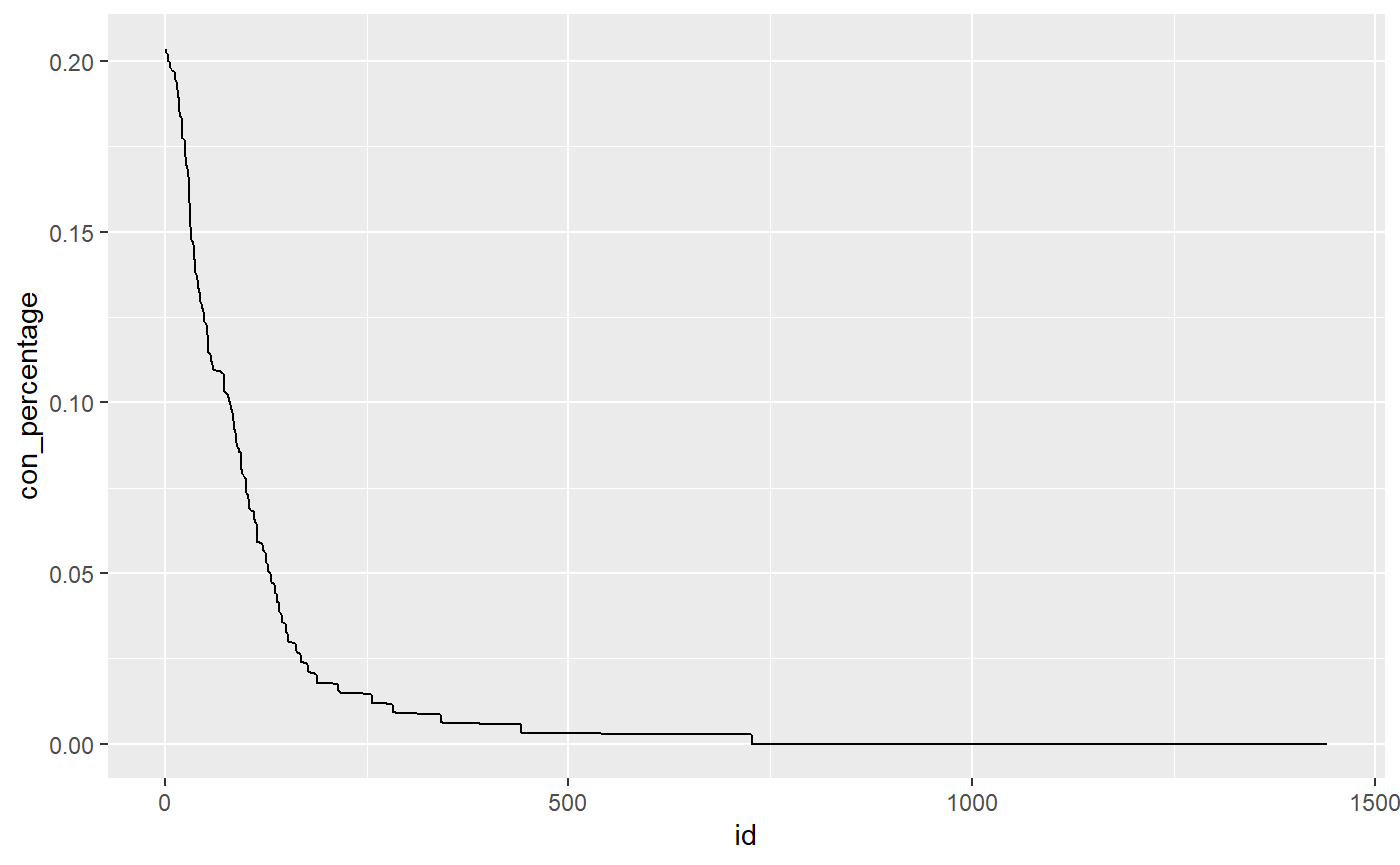
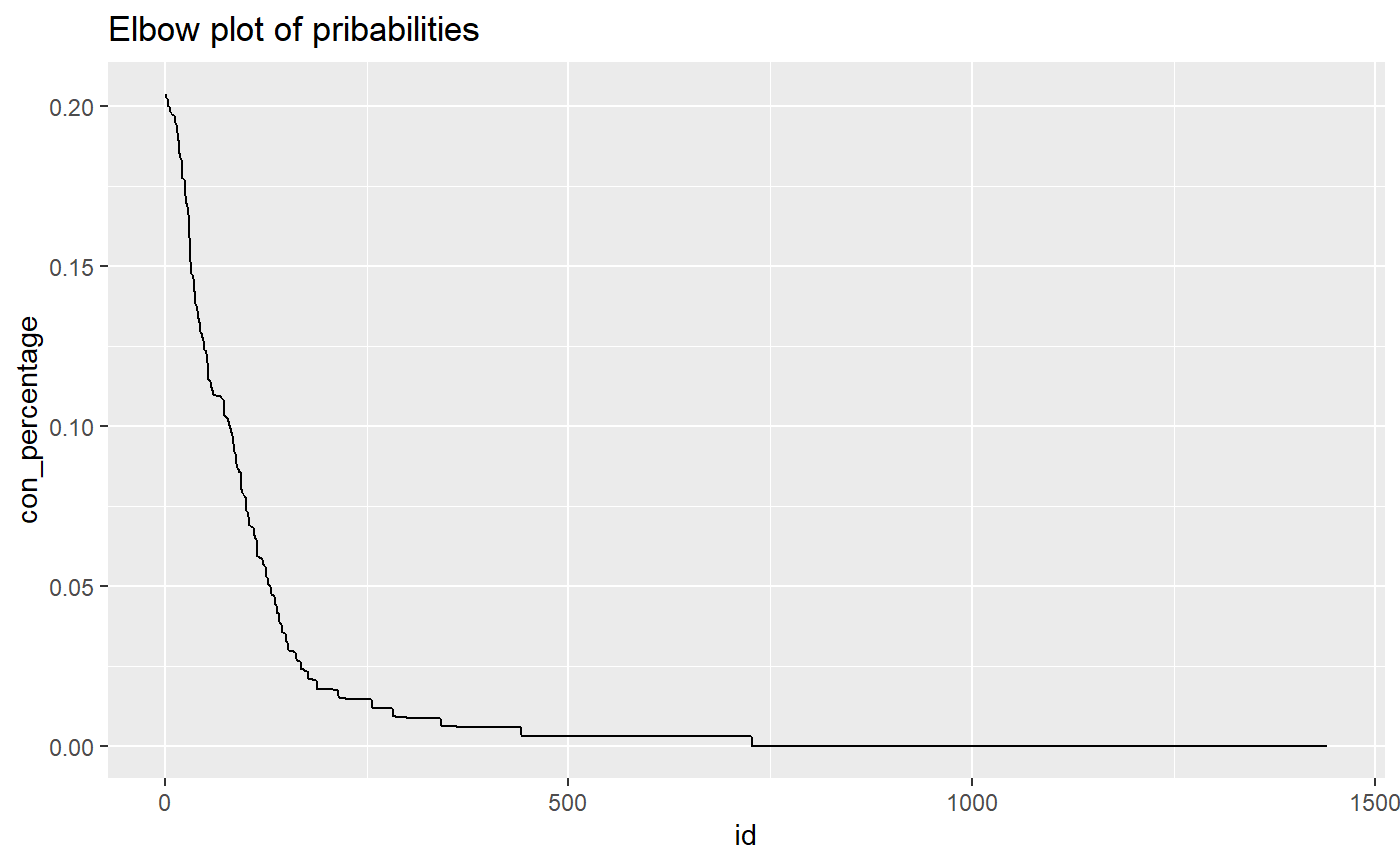
site

diff --git a/docs/articles/Description_functions.html b/docs/articles/Description_functions.html
@@ -85,15 +85,10 @@
 
     
     
-<div id="congestion-detection-with-sample-data" class="section level4">
-<h4 class="hasAnchor">
-<a href="#congestion-detection-with-sample-data" class="anchor"></a>Congestion detection with sample data</h4>
+<p>\begin{abstract} Congestion detection is one of the key steps to reduce delays and associated costs in traffic management. With the increasing usage of GPS base navigation, promising speed data is now available. This study utilizes such extensive historical probe data to detect spatio-temporal congestion by mining historical speed data. The detected congestion were further classified as Recurrent and Non Recurrent Congestion (RC, NRC). This work presents a big data driven expert system for identifying both recurrent and non-recurrent congestion and analyzing the delay and cost associated with them. For this purpose, first normal and anomalous days were classified based on travel rate distribution. Later, we utilized Bayesian change point detection to segment speed signal and detect temporal congestion.In this study, a statistical big data mining methodology is developed and the robustness of the proposed methodology is tested on probe data for 2016 calendar year, in Des Moines region, Iowa, US. The proposed framework is self adaptive because it does not rely on additional information for detecting spatio-temporal congestion. Therefore, it addresses the limits of prior work in NRC detection. The optimum value for congestion percentage threshold is identified by Elbow cut off method. ####Congestion detection with sample data Here we use a sample dataset in our package “dataset” to show the performance of the <strong><em>Congestion_detection</em></strong> function.</p>
 <div class="sourceCode"><pre class="sourceCode r"><code class="sourceCode r"><span class="kw"><a href="https://rdrr.io/r/utils/data.html">data</a></span>(<span class="dt">package =</span> <span class="st">"Dcongestion"</span>, dataset)
 visual&lt;-<span class="kw">Congestion_detection</span>(dataset)</code></pre></div>
-</div>
-<div id="loading-preprocessed-dataset-and-visualizing-the-out-put" class="section level4">
-<h4 class="hasAnchor">
-<a href="#loading-preprocessed-dataset-and-visualizing-the-out-put" class="anchor"></a>Loading preprocessed dataset and visualizing the out put</h4>
+<p>By loading a preprocessed data with <strong><em>Congestion_detection()</em></strong> function and visualizing the output we can observe the temporal congestions in our datafram. In this particular example we have morning an evening pick traffic hours that has been idenfitied with the proposed framework. #### Loading preprocessed dataset and visualizing the out put</p>
 <div class="sourceCode"><pre class="sourceCode r"><code class="sourceCode r">
 <span class="kw"><a href="https://rdrr.io/r/base/library.html">library</a></span>(ggplot2)
 <span class="kw"><a href="https://rdrr.io/r/utils/data.html">data</a></span>(<span class="dt">package =</span> <span class="st">"Dcongestion"</span>, visual)
@@ -103,45 +98,38 @@ visual<span class="op">$</span>date1 &lt;-<span class="kw"><a href="https://rdrr
 
 <span class="kw">ggplot</span>(<span class="dt">data=</span>visual,<span class="kw">aes</span>(<span class="dt">x=</span>time1,<span class="dt">y=</span><span class="kw"><a href="https://rdrr.io/r/base/as.Date.html">as.Date</a></span>(date1)))<span class="op">+</span><span class="kw">geom_tile</span>(<span class="kw">aes</span>(<span class="dt">fill =</span> visual))<span class="op">+</span><span class="kw">scale_fill_gradient</span>(<span class="dt">low=</span><span class="st">"red"</span>,<span class="dt">high=</span><span class="st">"green"</span>,<span class="dt">na.value=</span><span class="st">"white"</span>)<span class="op">+</span><span class="st"> </span><span class="kw">theme_bw</span>()<span class="op">+</span><span class="kw">ylab</span>(<span class="st">""</span>)<span class="op">+</span><span class="st"> </span><span class="kw">theme</span>(<span class="dt">panel.grid =</span> <span class="kw">element_blank</span>() )</code></pre></div>
 <p><img src="Description_functions_files/figure-html/unnamed-chunk-3-1.png" width="700"></p>
-</div>
-<div id="comparison-of-actual-dataset-and-functions-out-put" class="section level4">
-<h4 class="hasAnchor">
-<a href="#comparison-of-actual-dataset-and-functions-out-put" class="anchor"></a>comparison of actual dataset and function’s out put</h4>
+<p>To get a sense of what actual dataset looks like and how the function extracts the congetions we further ploted the actual dataset. #### comparison of actual dataset and function’s out put</p>
 <div class="sourceCode"><pre class="sourceCode r"><code class="sourceCode r"><span class="kw"><a href="https://rdrr.io/r/utils/data.html">data</a></span>(<span class="dt">package =</span> <span class="st">"Dcongestion"</span>, dataset)
 dataset<span class="op">$</span>time1 &lt;-<span class="kw"><a href="https://rdrr.io/r/base/as.POSIXlt.html">as.POSIXct</a></span>(<span class="kw"><a href="https://rdrr.io/r/base/character.html">as.character</a></span>(dataset<span class="op">$</span>time),<span class="dt">format=</span><span class="st">"%H:%M:%S"</span>)
 dataset<span class="op">$</span>date1 &lt;-<span class="kw"><a href="https://rdrr.io/r/base/as.POSIXlt.html">as.POSIXct</a></span>(<span class="kw"><a href="https://rdrr.io/r/base/character.html">as.character</a></span>(dataset<span class="op">$</span>date),<span class="dt">format=</span><span class="st">"%Y-%m-%d"</span>)
 
 <span class="kw">ggplot</span>(<span class="dt">data=</span>dataset,<span class="kw">aes</span>(<span class="dt">x=</span>time1,<span class="dt">y=</span><span class="kw"><a href="https://rdrr.io/r/base/as.Date.html">as.Date</a></span>(date1)))<span class="op">+</span><span class="kw">geom_tile</span>(<span class="kw">aes</span>(<span class="dt">fill =</span> Speed))<span class="op">+</span><span class="kw">scale_fill_gradient</span>(<span class="dt">low=</span><span class="st">"red"</span>,<span class="dt">high=</span><span class="st">"green"</span>,<span class="dt">na.value=</span><span class="st">"white"</span>)<span class="op">+</span><span class="st"> </span><span class="kw">theme_bw</span>()<span class="op">+</span><span class="kw">ylab</span>(<span class="st">""</span>)<span class="op">+</span><span class="st"> </span><span class="kw">theme</span>(<span class="dt">panel.grid =</span> <span class="kw">element_blank</span>() )</code></pre></div>
 <p><img src="Description_functions_files/figure-html/setup-1.png" width="700"></p>
-</div>
-<div id="delay-calculation" class="section level4">
-<h4 class="hasAnchor">
-<a href="#delay-calculation" class="anchor"></a>Delay calculation</h4>
+<p>As green colour refers to normal speed flow while red colour refers to reduced speed values. By comparing the above <strong><em>Congestion_detection</em></strong> function out put and actual dataset we can that temporal congestions has been identified.</p>
+<p>We can further calculate the delay associated to congestions by <strong><em>delay()</em></strong> function. #### Delay calculation</p>
 <div class="sourceCode"><pre class="sourceCode r"><code class="sourceCode r">Dcongestion<span class="op">::</span><span class="kw"><a href="https://rdrr.io/pkg/Dcongestion/man/delay.html">delay</a></span>(visual,<span class="fl">0.6</span>)
 <span class="co">#&gt; [1] 1.898703</span></code></pre></div>
-</div>
+<p>In order to identify and classify detected congestions to Recurrent and non-recurrent. We use an elbow cut of method on the congestion labeled data points. cut of point can be calculated by <strong><em>elbow_finder()</em></strong> function.</p>
 <div id="elbow-cut-off-theshold-calculation" class="section level4">
 <h4 class="hasAnchor">
 <a href="#elbow-cut-off-theshold-calculation" class="anchor"></a>Elbow cut off theshold calculation</h4>
-<div class="sourceCode"><pre class="sourceCode r"><code class="sourceCode r">r&lt;-<span class="kw"><a href="../reference/elbow_viusal.html">elbow_viusal</a></span>(visual)</code></pre></div>
-</div>
-<div id="elbow-cut-off-visualization" class="section level4">
-<h4 class="hasAnchor">
-<a href="#elbow-cut-off-visualization" class="anchor"></a>Elbow cut off visualization</h4>
+<div class="sourceCode"><pre class="sourceCode r"><code class="sourceCode r">
+r&lt;-<span class="kw"><a href="../reference/elbow_viusal.html">elbow_viusal</a></span>(visual)</code></pre></div>
+<p><strong><em>elbow_finder()</em></strong> function was used to calculate the probabilities associated to each time instance. Here we use a preprocessed dataset “r” in order to show the probabilities plot and elbow plot. ####Elbow cut off visualization</p>
 <div class="sourceCode"><pre class="sourceCode r"><code class="sourceCode r"><span class="kw"><a href="https://rdrr.io/r/base/library.html">library</a></span>(dplyr)
 <span class="kw"><a href="https://rdrr.io/r/utils/data.html">data</a></span>(<span class="dt">package =</span> <span class="st">"Dcongestion"</span>, r)
 
 sorted_percentages &lt;-<span class="st"> </span>r <span class="op">%&gt;%</span><span class="st"> </span><span class="kw">arrange</span>(<span class="kw">desc</span>(con_percentage))
-<span class="kw">ggplot</span>(<span class="dt">data=</span>r,<span class="kw">aes</span>(<span class="dt">x=</span>time1, <span class="dt">y=</span>con_percentage))<span class="op">+</span><span class="kw">geom_line</span>()</code></pre></div>
+<span class="kw">ggplot</span>(<span class="dt">data=</span>r,<span class="kw">aes</span>(<span class="dt">x=</span>time1, <span class="dt">y=</span>con_percentage))<span class="op">+</span><span class="kw">geom_line</span>()<span class="op">+</span><span class="kw">ggtitle</span>(<span class="st">'Congestion probabilities'</span>)</code></pre></div>
 <p><img src="Description_functions_files/figure-html/unnamed-chunk-6-1.png" width="700"></p>
 <div class="sourceCode"><pre class="sourceCode r"><code class="sourceCode r">
 ordered_data &lt;-<span class="st"> </span>sorted_percentages <span class="op">%&gt;%</span><span class="st"> </span><span class="kw">mutate</span>(<span class="dt">id =</span> <span class="kw">row_number</span>())
-<span class="kw">ggplot</span>(<span class="dt">data=</span>ordered_data,<span class="kw">aes</span>(<span class="dt">x=</span>id, <span class="dt">y=</span>con_percentage))<span class="op">+</span><span class="kw">geom_line</span>()</code></pre></div>
+<span class="kw">ggplot</span>(<span class="dt">data=</span>ordered_data,<span class="kw">aes</span>(<span class="dt">x=</span>id, <span class="dt">y=</span>con_percentage))<span class="op">+</span><span class="kw">geom_line</span>()<span class="op">+</span><span class="kw">ggtitle</span>(<span class="st">'Elbow plot of pribabilities'</span>)</code></pre></div>
 <p><img src="Description_functions_files/figure-html/unnamed-chunk-6-2.png" width="700"></p>
 <div class="sourceCode"><pre class="sourceCode r"><code class="sourceCode r">
 el_thre &lt;-<span class="st"> </span>Dcongestion<span class="op">::</span><span class="kw"><a href="https://rdrr.io/pkg/Dcongestion/man/elbow_finder.html">elbow_finder</a></span>(ordered_data[, <span class="dv">5</span>], ordered_data[, <span class="dv">1</span>])
-<span class="kw">ggplot</span>(<span class="dt">data=</span>ordered_data,<span class="kw">aes</span>(<span class="dt">x=</span>id, <span class="dt">y=</span>con_percentage))<span class="op">+</span><span class="kw">geom_line</span>()<span class="op">+</span><span class="st"> </span><span class="kw">geom_hline</span>(<span class="dt">yintercept=</span>el_thre[<span class="dv">2</span>], <span class="dt">linetype=</span><span class="st">"dashed"</span>, <span class="dt">color =</span> <span class="st">"red"</span>, <span class="dt">size=</span><span class="dv">2</span>)</code></pre></div>
-<p><img src="Description_functions_files/figure-html/unnamed-chunk-6-3.png" width="700"></p>
+<span class="kw">ggplot</span>(<span class="dt">data=</span>ordered_data,<span class="kw">aes</span>(<span class="dt">x=</span>id, <span class="dt">y=</span>con_percentage))<span class="op">+</span><span class="kw">geom_line</span>()<span class="op">+</span><span class="st"> </span><span class="kw">geom_hline</span>(<span class="dt">yintercept=</span>el_thre[<span class="dv">2</span>], <span class="dt">linetype=</span><span class="st">"dashed"</span>, <span class="dt">color =</span> <span class="st">"red"</span>, <span class="dt">size=</span><span class="dv">2</span>)<span class="op">+</span><span class="kw">ggtitle</span>(<span class="st">'Elbow plot of pribabilities and cut off point'</span>)</code></pre></div>
+<p><img src="Description_functions_files/figure-html/unnamed-chunk-6-3.png" width="700"> The cut off red line shows the cut off point. That is our theshold that identifies recurrent congestions that have a probability higher than an identified threshold value. The values below threshold value are considered as non recurrent and values higher than threshold are considered as recurrent.</p>
 </div>
   </div>
 

diff --git a/docs/reference/Data-Driven-congestion.html b/docs/reference/Data-Driven-congestion.html
@@ -6,7 +6,7 @@
 <meta http-equiv="X-UA-Compatible" content="IE=edge">
 <meta name="viewport" content="width=device-width, initial-scale=1.0">
 
-<title>Function reference • Dcongestion</title>
+<title>Data driven congestion detection. — Data Driven congestion • Dcongestion</title>
 
 <!-- jquery -->
 <script src="https://cdnjs.cloudflare.com/ajax/libs/jquery/3.3.1/jquery.min.js" integrity="sha256-FgpCb/KJQlLNfOu91ta32o/NMZxltwRo8QtmkMRdAu8=" crossorigin="anonymous"></script>
@@ -32,7 +32,10 @@
 
 
 
-<meta property="og:title" content="Function reference" />
+<meta property="og:title" content="Data driven congestion detection. — Data Driven congestion" />
+
+<meta property="og:description" content="Data driven congestion detection." />
+<meta name="twitter:card" content="summary" />
 
 
 
@@ -50,7 +53,7 @@
   </head>
 
   <body>
-    <div class="container template-reference-index">
+    <div class="container template-reference-topic">
       <header>
       <div class="navbar navbar-default navbar-fixed-top" role="navigation">
   <div class="container">
@@ -108,60 +111,53 @@
       </header>
 
 <div class="row">
-  <div class="contents col-md-9">
+  <div class="col-md-9 contents">
     <div class="page-header">
-      <h1>Reference</h1>
+    <h1>Data driven congestion detection.</h1>
+    
+    <div class="hidden name"><code>Data-Driven-congestion.Rd</code></div>
     </div>
 
-    <table class="ref-index">
+    <div class="ref-description">
+    
+    <p>Data driven congestion detection.</p>
+    
+    </div>
 
-    <colgroup>
-      
-      <col class="alias" />
-      <col class="title" />
-    </colgroup>
-
-    <tbody>
-      <tr>
-        <th colspan="2">
-          <h2 id="section-all-functions" class="hasAnchor"><a href="#section-all-functions" class="anchor"></a>All functions</h2>
-          <p class="section-desc"></p>
-        </th>
-      </tr>
-      <tr>
-        
-        <td>
-          <p><code><a href="Data-Driven-congestion.html">Data Driven congestion</a></code> </p>
-        </td>
-        <td><p>Data driven congestion detection.</p></td>
-      </tr><tr>
-        
-        <td>
-          <p><code><a href="delay.html">delay()</a></code> </p>
-        </td>
-        <td><p>Delay calculation.</p></td>
-      </tr><tr>
-        
-        <td>
-          <p><code><a href="Elbow-finder.html">elbow_finder()</a></code> </p>
-        </td>
-        <td><p>Elbow finder.</p></td>
-      </tr><tr>
-        
-        <td>
-          <p><code><a href="elbow_viusal.html">elbow_viusal()</a></code> </p>
-        </td>
-        <td><p>Visualizing the elbow cut off point</p></td>
-      </tr>
-    </tbody>
+    
+    <h2 class="hasAnchor" id="arguments"><a class="anchor" href="#arguments"></a>Arguments</h2>
+    <table class="ref-arguments">
+    <colgroup><col class="name" /><col class="desc" /></colgroup>
+    <tr>
+      <th>dataset</th>
+      <td><p>including speed signal, change point probabilities</p></td>
+    </tr>
     </table>
-  </div>
+    
+    <h2 class="hasAnchor" id="value"><a class="anchor" href="#value"></a>Value</h2>
 
+    <p>Spatiotemporal congestions</p>
+<p>classified dataframe</p>
+    
+
+    <h2 class="hasAnchor" id="examples"><a class="anchor" href="#examples"></a>Examples</h2>
+    <pre class="examples"><div class='input'><span class='kw'>if</span> (<span class='fl'>FALSE</span>) {
+<span class='fu'><a href='https://rdrr.io/r/base/library.html'>library</a></span>(<span class='st'>"Dcongestion"</span>)
+<span class='no'>dataset</span> <span class='kw'>&lt;-</span> <span class='fu'><a href='https://rdrr.io/r/base/load.html'>load</a></span>(<span class='kw'>package</span> <span class='kw'>=</span> <span class='st'>"Dcongestion"</span>, <span class='st'>"dataset"</span>)
+<span class='fu'>Congestion_detection</span>(<span class='no'>dataset</span>)}</div></pre>
+  </div>
   <div class="col-md-3 hidden-xs hidden-sm" id="sidebar">
     <h2>Contents</h2>
     <ul class="nav nav-pills nav-stacked">
-      <li><a href="#section-all-functions">All functions</a></li>
+      <li><a href="#arguments">Arguments</a></li>
+      
+      <li><a href="#value">Value</a></li>
+      
+      <li><a href="#examples">Examples</a></li>
     </ul>
+
+    <h2>Author</h2>
+    <p>Atousa zarindast</p>
   </div>
 </div>
 

diff --git a/docs/reference/Elbow-finder.html b/docs/reference/Elbow-finder.html
@@ -6,7 +6,7 @@
 <meta http-equiv="X-UA-Compatible" content="IE=edge">
 <meta name="viewport" content="width=device-width, initial-scale=1.0">
 
-<title>Function reference • Dcongestion</title>
+<title>Elbow finder. — Elbow finder • Dcongestion</title>
 
 <!-- jquery -->
 <script src="https://cdnjs.cloudflare.com/ajax/libs/jquery/3.3.1/jquery.min.js" integrity="sha256-FgpCb/KJQlLNfOu91ta32o/NMZxltwRo8QtmkMRdAu8=" crossorigin="anonymous"></script>
@@ -32,7 +32,10 @@
 
 
 
-<meta property="og:title" content="Function reference" />
+<meta property="og:title" content="Elbow finder. — Elbow finder" />
+
+<meta property="og:description" content="Elbow finder." />
+<meta name="twitter:card" content="summary" />
 
 
 
@@ -50,7 +53,7 @@
   </head>
 
   <body>
-    <div class="container template-reference-index">
+    <div class="container template-reference-topic">
       <header>
       <div class="navbar navbar-default navbar-fixed-top" role="navigation">
   <div class="container">
@@ -108,60 +111,47 @@
       </header>
 
 <div class="row">
-  <div class="contents col-md-9">
+  <div class="col-md-9 contents">
     <div class="page-header">
-      <h1>Reference</h1>
+    <h1>Elbow finder.</h1>
+    
+    <div class="hidden name"><code>Elbow-finder.Rd</code></div>
     </div>
 
-    <table class="ref-index">
+    <div class="ref-description">
+    
+    <p>Elbow finder.</p>
+    
+    </div>
 
-    <colgroup>
-      
-      <col class="alias" />
-      <col class="title" />
-    </colgroup>
-
-    <tbody>
-      <tr>
-        <th colspan="2">
-          <h2 id="section-all-functions" class="hasAnchor"><a href="#section-all-functions" class="anchor"></a>All functions</h2>
-          <p class="section-desc"></p>
-        </th>
-      </tr>
-      <tr>
-        
-        <td>
-          <p><code><a href="Data-Driven-congestion.html">Data Driven congestion</a></code> </p>
-        </td>
-        <td><p>Data driven congestion detection.</p></td>
-      </tr><tr>
-        
-        <td>
-          <p><code><a href="delay.html">delay()</a></code> </p>
-        </td>
-        <td><p>Delay calculation.</p></td>
-      </tr><tr>
-        
-        <td>
-          <p><code><a href="Elbow-finder.html">elbow_finder()</a></code> </p>
-        </td>
-        <td><p>Elbow finder.</p></td>
-      </tr><tr>
-        
-        <td>
-          <p><code><a href="elbow_viusal.html">elbow_viusal()</a></code> </p>
-        </td>
-        <td><p>Visualizing the elbow cut off point</p></td>
-      </tr>
-    </tbody>
+    <pre class="usage"><span class='fu'>elbow_finder</span>(<span class='no'>x_values</span>, <span class='no'>y_values</span>)</pre>
+    
+    <h2 class="hasAnchor" id="arguments"><a class="anchor" href="#arguments"></a>Arguments</h2>
+    <table class="ref-arguments">
+    <colgroup><col class="name" /><col class="desc" /></colgroup>
+    <tr>
+      <th>two</th>
+      <td><p>dimentional space</p></td>
+    </tr>
     </table>
-  </div>
+    
+    <h2 class="hasAnchor" id="value"><a class="anchor" href="#value"></a>Value</h2>
 
+    <p>Elbow cut of point</p>
+<p>cut of point</p>
+    
+
+  </div>
   <div class="col-md-3 hidden-xs hidden-sm" id="sidebar">
     <h2>Contents</h2>
     <ul class="nav nav-pills nav-stacked">
-      <li><a href="#section-all-functions">All functions</a></li>
-    </ul>
+      <li><a href="#arguments">Arguments</a></li>
+      
+      <li><a href="#value">Value</a></li>
+          </ul>
+
+    <h2>Author</h2>
+    <p>Atousa Zarindast</p>
   </div>
 </div>
 

diff --git a/docs/articles/Index.html b/docs/articles/Index.html
@@ -88,7 +88,12 @@
 <div id="spatiotemporal-congestion-detection" class="section level3">
 <h3 class="hasAnchor">
 <a href="#spatiotemporal-congestion-detection" class="anchor"></a>SpatioTemporal congestion detection</h3>
-<p>Dcongestion is a package for spatiotemporal congestions based on speed data ## Installation <code><a href="https://rdrr.io/r/utils/install.packages.html">install.packages("Dcongestion")</a></code></p>
+<p>Dcongestion is a package for spatiotemporal congestions based on speed data</p>
+</div>
+<div id="installation" class="section level2">
+<h2 class="hasAnchor">
+<a href="#installation" class="anchor"></a>Installation</h2>
+<p><code><a href="https://rdrr.io/r/utils/install.packages.html">install.packages("Dcongestion")</a></code></p>
 </div>
 <div id="website" class="section level2">
 <h2 class="hasAnchor">
@@ -99,7 +104,8 @@
 <div id="usage" class="section level2">
 <h2 class="hasAnchor">
 <a href="#usage" class="anchor"></a>Usage</h2>
-<p>Major functions for spatiotemporal traffic congestion: 1. Calculating delays</p>
+<p>Major functions for spatiotemporal traffic congestion:<br>
+1. Calculating delays</p>
 <ol start="2" style="list-style-type: decimal">
 <li><p>Idenfitiying congestion and visualization</p></li>
 <li><p>Elbow cut off</p></li>
@@ -112,7 +118,8 @@
       <h2 class="hasAnchor">
 <a href="#tocnav" class="anchor"></a>Contents</h2>
       <ul class="nav nav-pills nav-stacked">
-<li><a href="#website">Website</a></li>
+<li><a href="#installation">Installation</a></li>
+      <li><a href="#website">Website</a></li>
       <li><a href="#usage">Usage</a></li>
       </ul>
 </div>
